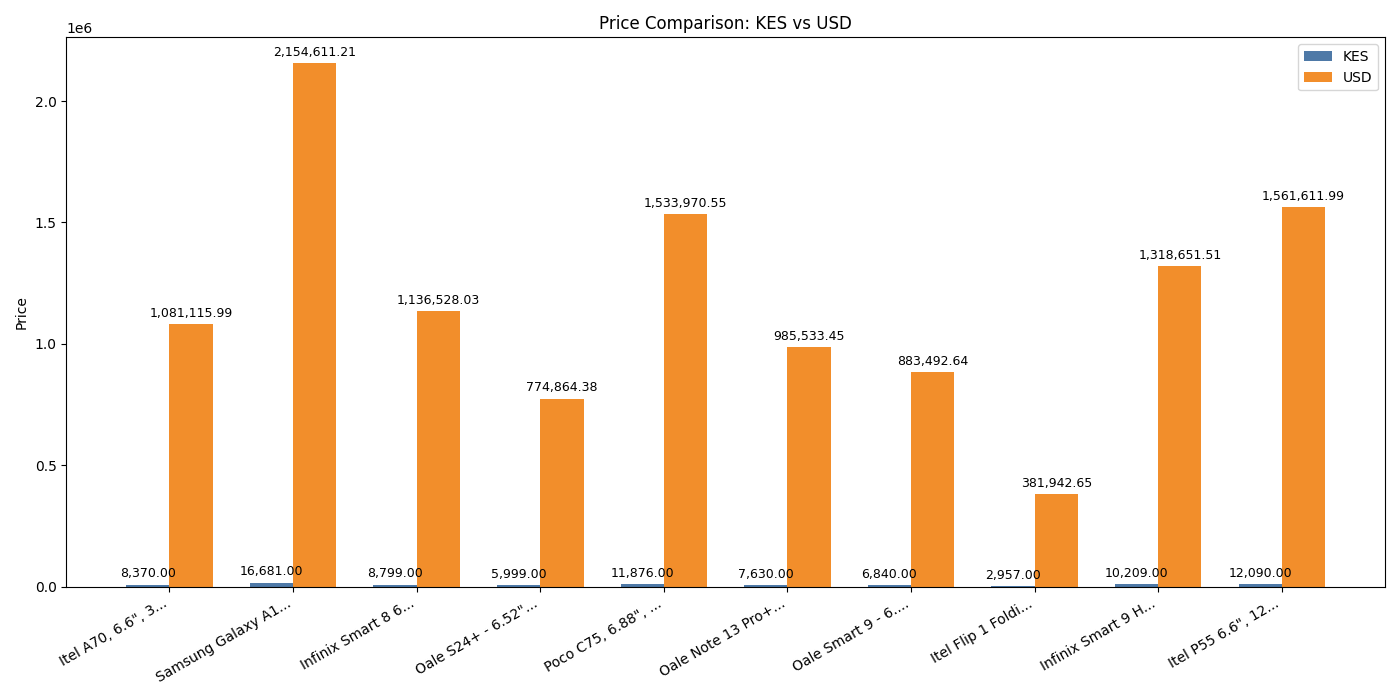
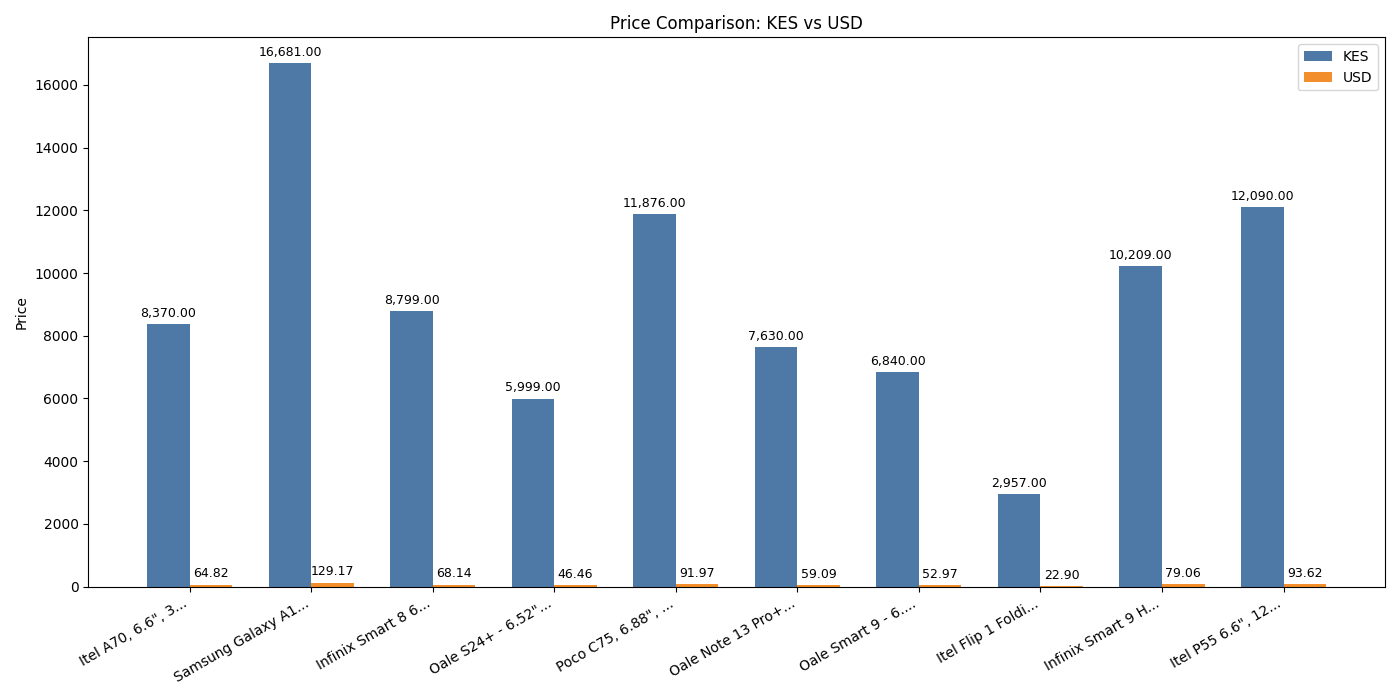
new changes

diff --git a/jumia.py b/jumia.py
@@ -6,7 +6,7 @@ import matplotlib.pyplot as plt
 import csv
 import numpy as np
 
-
+# --- Input Section ---
 source_currency = input("Enter source currency (e.g. USD): ").strip().upper()
 if not source_currency:
     source_currency = "USD"
@@ -21,18 +21,19 @@ if not api_key:
     print("API key is required.")
     exit()
 
+# --- Scrape Jumia for Product Prices ---
 headers = {
     'User-Agent': 'Mozilla/5.0'
 }
 
 products = []
 try:
-    url = "https://www.jumia.co.ke/phones-tablets/smartphones/"  
+    url = "https://www.jumia.co.ke/phones-tablets/smartphones/"
     response = requests.get(url, headers=headers)
     response.raise_for_status()
 
     soup = BeautifulSoup(response.content, 'html.parser')
-    items = soup.select("article.prd")  
+    items = soup.select("article.prd")
 
     for item in items:
         title_tag = item.select_one("h3.name")
@@ -46,7 +47,7 @@ try:
                 price_kes = float(price_text)
                 products.append({
                     'Product Name': title,
-                    f'Price (KES)': price_kes
+                    'Price (KES)': price_kes
                 })
             except ValueError:
                 continue
@@ -59,22 +60,21 @@ if not products:
     print("No products found. Exiting.")
     exit()
 
-
+# --- Save Scraped Data to CSV ---
 csv_filename = "jumia_products_kes.csv"
 with open(csv_filename, mode='w', newline='', encoding='utf-8') as file:
-    writer = csv.DictWriter(file, fieldnames=['Product Name', f'Price (KES)'])
+    writer = csv.DictWriter(file, fieldnames=['Product Name', 'Price (KES)'])
     writer.writeheader()
     writer.writerows(products)
 
 print(f"Scraped product data saved to '{csv_filename}'.")
 
-
+# --- Currency Conversion ---
 df = pd.DataFrame(products)
-price_col_kes = f'Price (KES)'
-
 
 try:
-    conversion_url = f"https://v6.exchangerate-api.com/v6/{api_key}/pair/{target_currency}/{source_currency}"
+    # Correct direction: USD to KES (if converting KES to USD, divide KES by this rate)
+    conversion_url = f"https://v6.exchangerate-api.com/v6/{api_key}/pair/{source_currency}/{target_currency}"
     response = requests.get(conversion_url)
     data = response.json()
 
@@ -83,34 +83,35 @@ try:
         exit()
 
     rate = data['conversion_rate']
+    print(f"\nExchange Rate: 1 {source_currency} = {rate} {target_currency}")
+
 except Exception as e:
     print(f"Conversion error: {e}")
     exit()
 
-
+# --- Convert and Save Data ---
 timestamp = datetime.now().strftime("%Y-%m-%d %H:%M:%S")
-df[f'Price ({source_currency})'] = (df[price_col_kes] / rate).round(2)
+df[f'Price ({source_currency})'] = (df['Price (KES)'] / rate).round(2)
 df['Timestamp'] = timestamp
-
 
 processed_csv_filename = 'jumia_product_prices.csv'
 df.to_csv(processed_csv_filename, index=False)
 print(f"Processed prices saved to '{processed_csv_filename}'.")
 
-
+# --- Display Top 10 Products ---
 print(f"\n{'-'*40}\nJumia Product Prices (as of {timestamp}):\n{'-'*40}")
-print(df[['Product Name', price_col_kes, f'Price ({source_currency})']].head(10).to_string(index=False))
+print(df[['Product Name', 'Price (KES)', f'Price ({source_currency})']].head(10).to_string(index=False))
 
-
+# --- Visualization ---
 plot_df = df.head(10)
 titles = plot_df['Product Name']
 titles_short = [title if len(title) < 20 else title[:17] + "..." for title in titles]
 
-x = np.arange(len(titles_short))  
+x = np.arange(len(titles_short))
 width = 0.35
 
 fig, ax = plt.subplots(figsize=(14, 7))
-rects1 = ax.bar(x - width/2, plot_df[price_col_kes], width, label='KES', color='#4e79a7')
+rects1 = ax.bar(x - width/2, plot_df['Price (KES)'], width, label='KES', color='#4e79a7')
 rects2 = ax.bar(x + width/2, plot_df[f'Price ({source_currency})'], width, label=source_currency, color='#f28e2b')
 
 def autolabel(rects):
